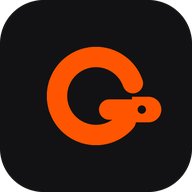
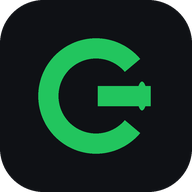
Gusto: volta a paleta original (verde #4ade80/#22c55e + amarelo #fbbf24), icone verde, sw v8

Changed region(s): [[0.1875, 0.1875, 0.8438, 0.8125]]

diff --git a/academia/index.html b/academia/index.html
@@ -11,11 +11,11 @@
 <link rel="apple-touch-icon" href="icon-192.png">
 <style>
   :root{
-    --bg:#121214; --bg2:#27272A; --bg3:#333338; --line:#3F3F46;
-    --txt:#FFFFFF; --mut:#A1A1AA; --acc:#22C55E; --acc2:#22C55E;
-    --brand:#FF5500; --brand-dim:rgba(255,85,0,.14); --brand-ink:#121214;
+    --bg:#0f1115; --bg2:#161a21; --bg3:#1e242e; --line:#2a3240;
+    --txt:#e9edf4; --mut:#8b98ab; --acc:#4ade80; --acc2:#22c55e;
+    --brand:#4ade80; --brand-dim:rgba(251,191,36,.14); --brand-ink:#121214;
     --warn:#fbbf24; --err:#f87171; --blue:#60a5fa;
-    --aman:#FF5500; --aman2:#e64d00;
+    --aman:#fbbf24; --aman2:#e64d00;
     --r:14px; --safe-b: env(safe-area-inset-bottom, 0px);
   }
   *{box-sizing:border-box; -webkit-tap-highlight-color:transparent}
@@ -83,9 +83,9 @@
     color:#121214; background:var(--brand); border:1px solid var(--brand); font-weight:900}
   .treino-btn.st-ult{background:rgba(34,197,94,.07)}
   .treino-btn.st-ult .letter{background:var(--acc); color:#121214}
-  .treino-btn.st-prox{border:1.5px solid var(--brand); background:rgba(255,85,0,.10)}
+  .treino-btn.st-prox{border:1.5px solid var(--brand); background:rgba(251,191,36,.10)}
   .treino-btn.st-prox .letter{background:var(--brand); color:#121214}
-  .treino-btn.st-prox .sub{color:#FFB38A}
+  .treino-btn.st-prox .sub{color:#fcd34d}
   /* tabs / nav */
   nav.tabs{
     position:fixed; left:0; right:0; bottom:0; z-index:30;
@@ -118,7 +118,7 @@
     -moz-appearance:textfield;
   }
   input[type=number]{text-align:center}
-  input:focus,select:focus{outline:2px solid rgba(255,85,0,.55); outline-offset:0; border-color:var(--brand)}
+  input:focus,select:focus{outline:2px solid rgba(251,191,36,.55); outline-offset:0; border-color:var(--brand)}
   .last{font-size:12px; color:var(--mut); margin-top:2px}
   .last b{color:var(--acc); white-space:nowrap}
   .last{line-height:1.5}
@@ -192,7 +192,7 @@
   .obs-wrap textarea{width:100%; min-height:54px; resize:vertical; background:var(--bg); border:1px solid var(--line);
     border-radius:10px; padding:9px 11px; font-size:15px; font-weight:500; line-height:1.4; color:var(--txt);
     font-family:inherit; -webkit-appearance:none}
-  .obs-wrap textarea:focus{outline:2px solid rgba(255,85,0,.55); border-color:var(--brand)}
+  .obs-wrap textarea:focus{outline:2px solid rgba(251,191,36,.55); border-color:var(--brand)}
   .obs-line{font-size:12.5px; color:#D4D4D8; margin-top:4px; padding-left:9px; border-left:2px solid rgba(96,165,250,.45); white-space:pre-wrap; word-break:break-word}
   .obs-hist{margin-top:10px}
   .obs-hist .oh{display:flex; gap:8px; padding:6px 0; border-bottom:1px solid var(--line); font-size:13px; align-items:flex-start}
@@ -1314,12 +1314,12 @@ function svgChart(points, { w = 420, h = 220, metric = "max" } = {}) {
   // área + linha
   if (points.length > 1) {
     const d = points.map((p, i) => `${i ? "L" : "M"}${x(i).toFixed(1)},${y(p[metric]).toFixed(1)}`).join(" ");
-    mk("path", { d: `${d} L${x(points.length - 1)},${padT + ih} L${x(0)},${padT + ih} Z`, fill: "rgba(255,85,0,.13)" });
+    mk("path", { d: `${d} L${x(points.length - 1)},${padT + ih} L${x(0)},${padT + ih} Z`, fill: "rgba(251,191,36,.13)" });
     mk("path", { d, fill: "none", stroke: "#4ade80", "stroke-width": 2.5, "stroke-linejoin": "round", "stroke-linecap": "round" });
   }
   // pontos
   points.forEach((p, i) => {
-    mk("circle", { cx: x(i), cy: y(p[metric]), r: 4.5, fill: "#121214", stroke: "#FF5500", "stroke-width": 2.5 });
+    mk("circle", { cx: x(i), cy: y(p[metric]), r: 4.5, fill: "#121214", stroke: "#fbbf24", "stroke-width": 2.5 });
     mk("title", {}, `${fmtBR(p.data)}: ${p.max} kg (média ${p.avg.toFixed(1)})`);
   });
   // rótulos eixo x (máx ~5)

diff --git a/academia/sw.js b/academia/sw.js
@@ -1,5 +1,5 @@
 /* Gusto PWA — service worker */
-const CACHE = "academia-v7";
+const CACHE = "academia-v8";
 const ASSETS = ["./", "./index.html", "./manifest.json", "./icon.svg", "./icon-192.png", "./icon-512.png"];
 
 self.addEventListener("install", (e) => {
